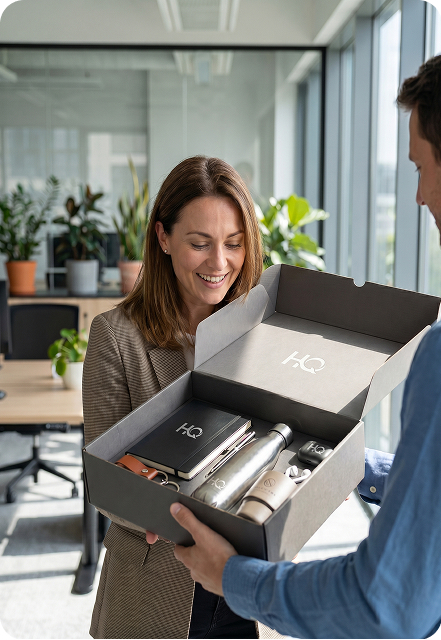
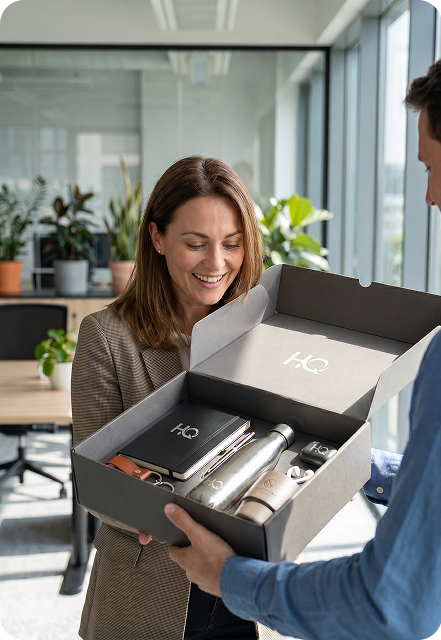
Hero section fixes

diff --git a/app/components/Hero.tsx b/app/components/Hero.tsx
@@ -51,14 +51,25 @@ export default function Hero() {
     };
   }, []);
 
-  /* Advance the shared index; disabled under reduced motion or while paused. */
+  /* `playing` is read through a ref so pausing/resuming (scroll, tab
+     visibility) never tears down and restarts the timer below — that restart
+     was what let the video loop extra times before the word caught up. */
+  const playingRef = useRef(playing);
   useEffect(() => {
-    if (reduce || !playing || HERO_SLIDES.length <= 1) return;
+    playingRef.current = playing;
+  }, [playing]);
+
+  /* One stable ticker owns the shared index, so the word and the video advance
+     together on an exact 5s cadence. Ticks that land while paused (off-screen /
+     tab hidden) are skipped instead of resetting the clock. */
+  useEffect(() => {
+    if (reduce || HERO_SLIDES.length <= 1) return;
     const id = setInterval(() => {
+      if (!playingRef.current) return;
       setIndex((i) => (i + 1) % HERO_SLIDES.length);
     }, HERO_SLIDE_INTERVAL_MS);
     return () => clearInterval(id);
-  }, [reduce, playing]);
+  }, [reduce]);
 
   return (
     /* Fixed-height frame (min-h tokens), content vertically CENTERED
@@ -68,7 +79,7 @@ export default function Hero() {
        positions stay identical to the Figma frame. */
     <section
       ref={sectionRef}
-      className="relative flex min-h-[calc(var(--spacing-hero-sm)+4rem)] flex-col items-start justify-center overflow-hidden px-section-x-sm pb-12 pt-[7rem] md:min-h-[calc(var(--spacing-hero-md)+4rem)] md:px-section-x-md md:pb-section-y-md md:pt-[8rem] lg:min-h-[calc(var(--spacing-hero-lg)+4rem)] lg:px-section-x-lg lg:pb-section-y-lg lg:pt-[10rem] bg-black"
+      className="relative flex min-h-[calc(var(--spacing-hero-sm)+4rem)] flex-col items-start justify-center overflow-hidden px-section-x-sm pb-12 pt-[7rem] md:min-h-[calc(var(--spacing-hero-md)+4rem)] md:px-section-x-md md:pb-section-y-md md:pt-[8rem] lg:min-h-[calc(var(--spacing-hero-lg)+4rem)] lg:px-section-x-lg lg:pb-section-y-lg lg:pt-[10rem] bg-black aspect-video"
     >
       {/* full-bleed rotating video background (poster = the hero photo, so no
           black flash before/without playback), with the same contrast scrims

diff --git a/app/components/HeroBackgroundVideo.tsx b/app/components/HeroBackgroundVideo.tsx
@@ -38,6 +38,15 @@ export default function HeroBackgroundVideo({
       if (!playing || reduce) {
         v.pause();
       } else if (i === index) {
+        // On a real switch, restart the incoming clip from the top so it plays
+        // in lockstep with the new word (and never resumes mid-clip).
+        if (i !== prev) {
+          try {
+            v.currentTime = 0;
+          } catch {
+            /* not seekable yet — it'll still play from wherever it is */
+          }
+        }
         v.play().catch(() => {});
       } else if (i !== prev) {
         v.pause();
@@ -69,7 +78,6 @@ export default function HeroBackgroundVideo({
           src={s.video}
           // poster={heroBg.src}
           muted
-          loop
           playsInline
           preload="auto"
           aria-hidden

diff --git a/app/data/heroRotation.ts b/app/data/heroRotation.ts
@@ -20,7 +20,7 @@ export const HERO_SLIDES: HeroSlide[] = [
   { word: "partners", video: "/videos/hero/Partners.mp4" },
   { word: "customers", video: "/videos/hero/Customers.mp4" },
   { word: "employees", video: "/videos/hero/Employee.mp4" },
-  { word: "community", video: "/videos/hero/People.mp4" },
+  { word: "community", video: "/videos/hero/Community.mp4" },
 ];
 
 /* How long each word/video holds before advancing. */